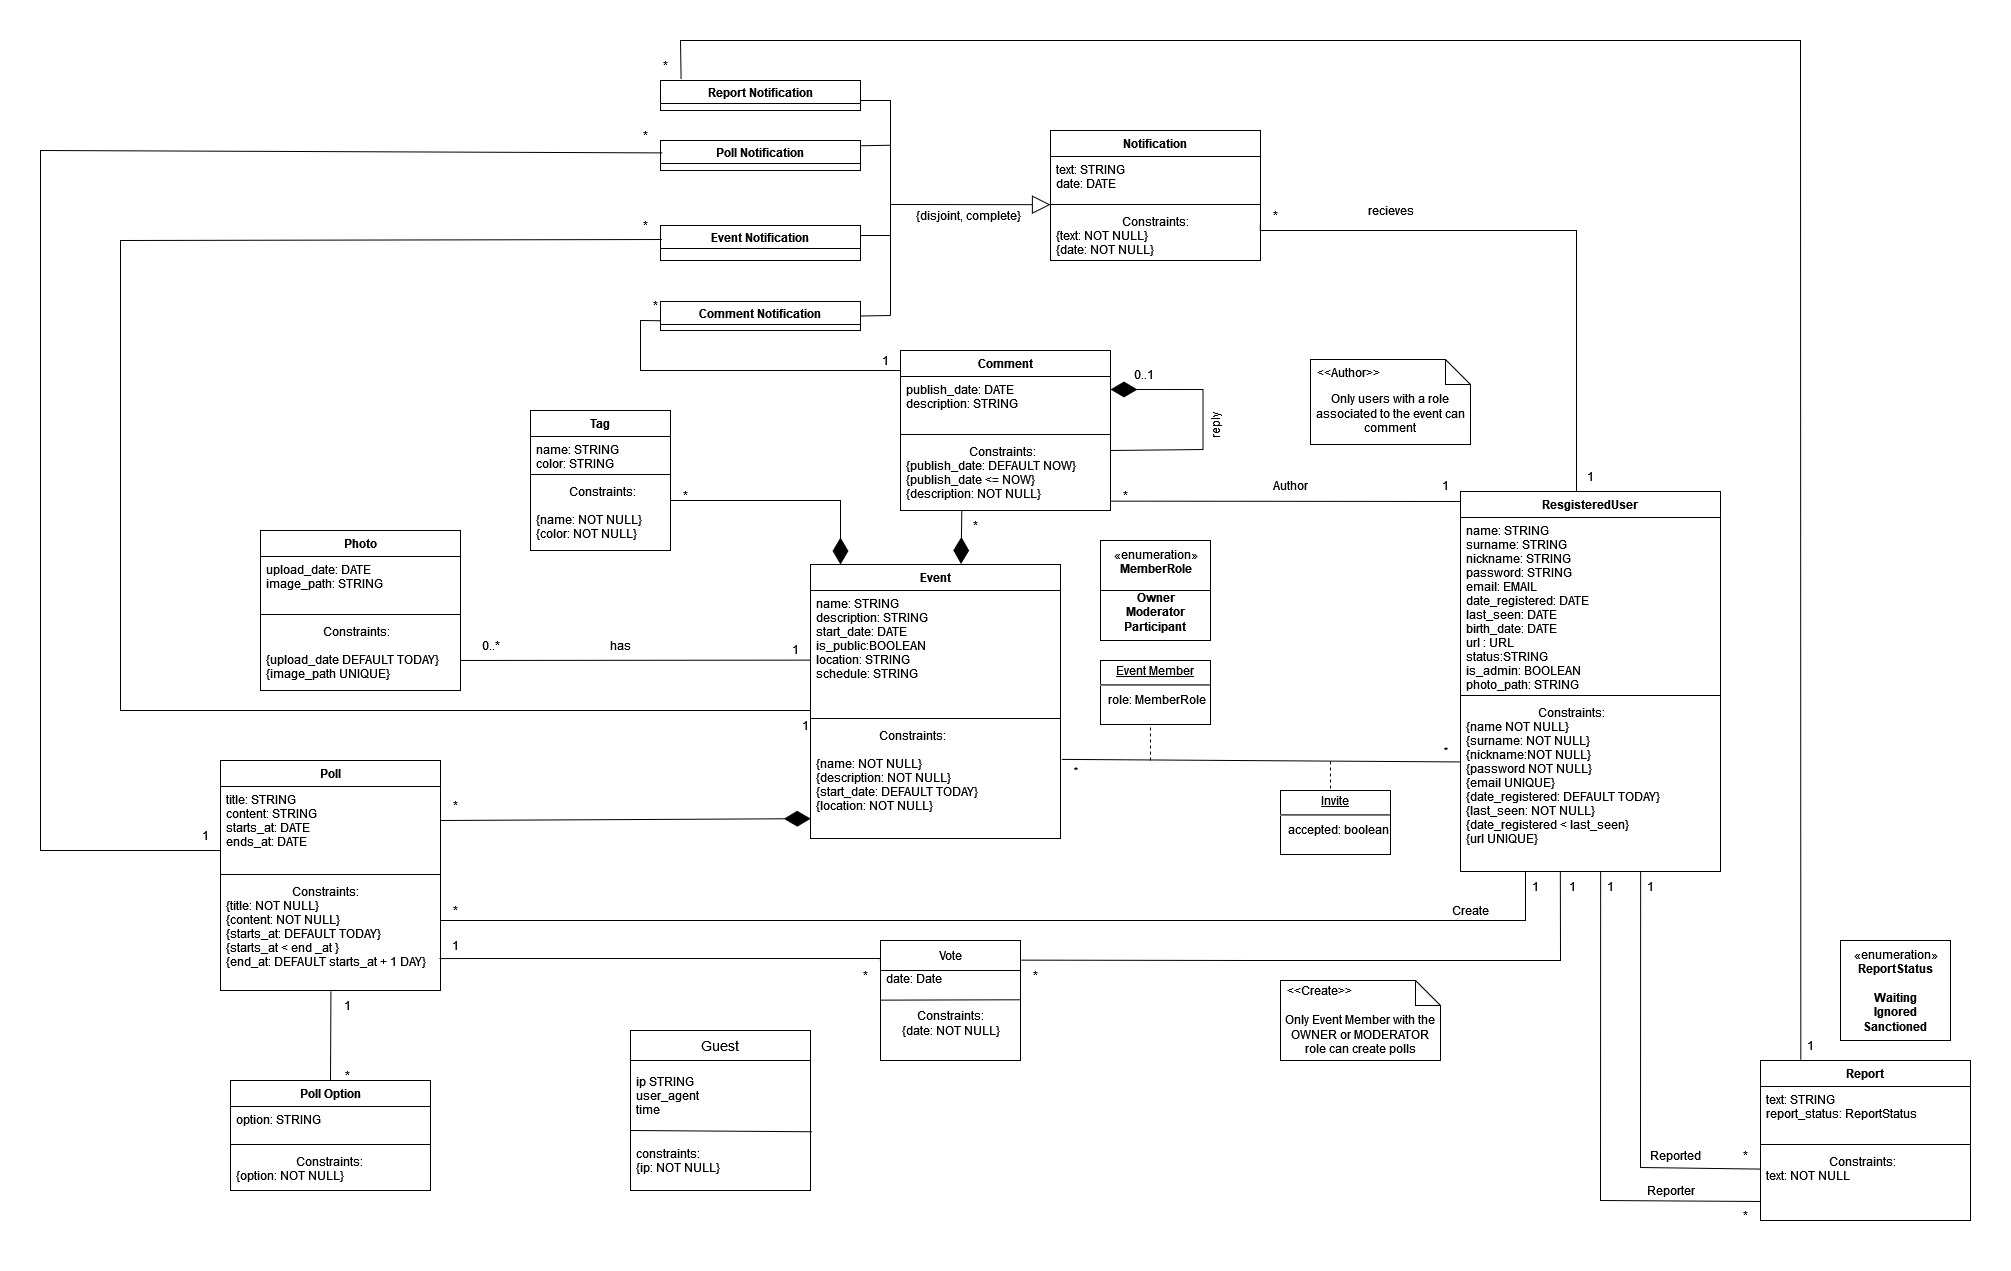
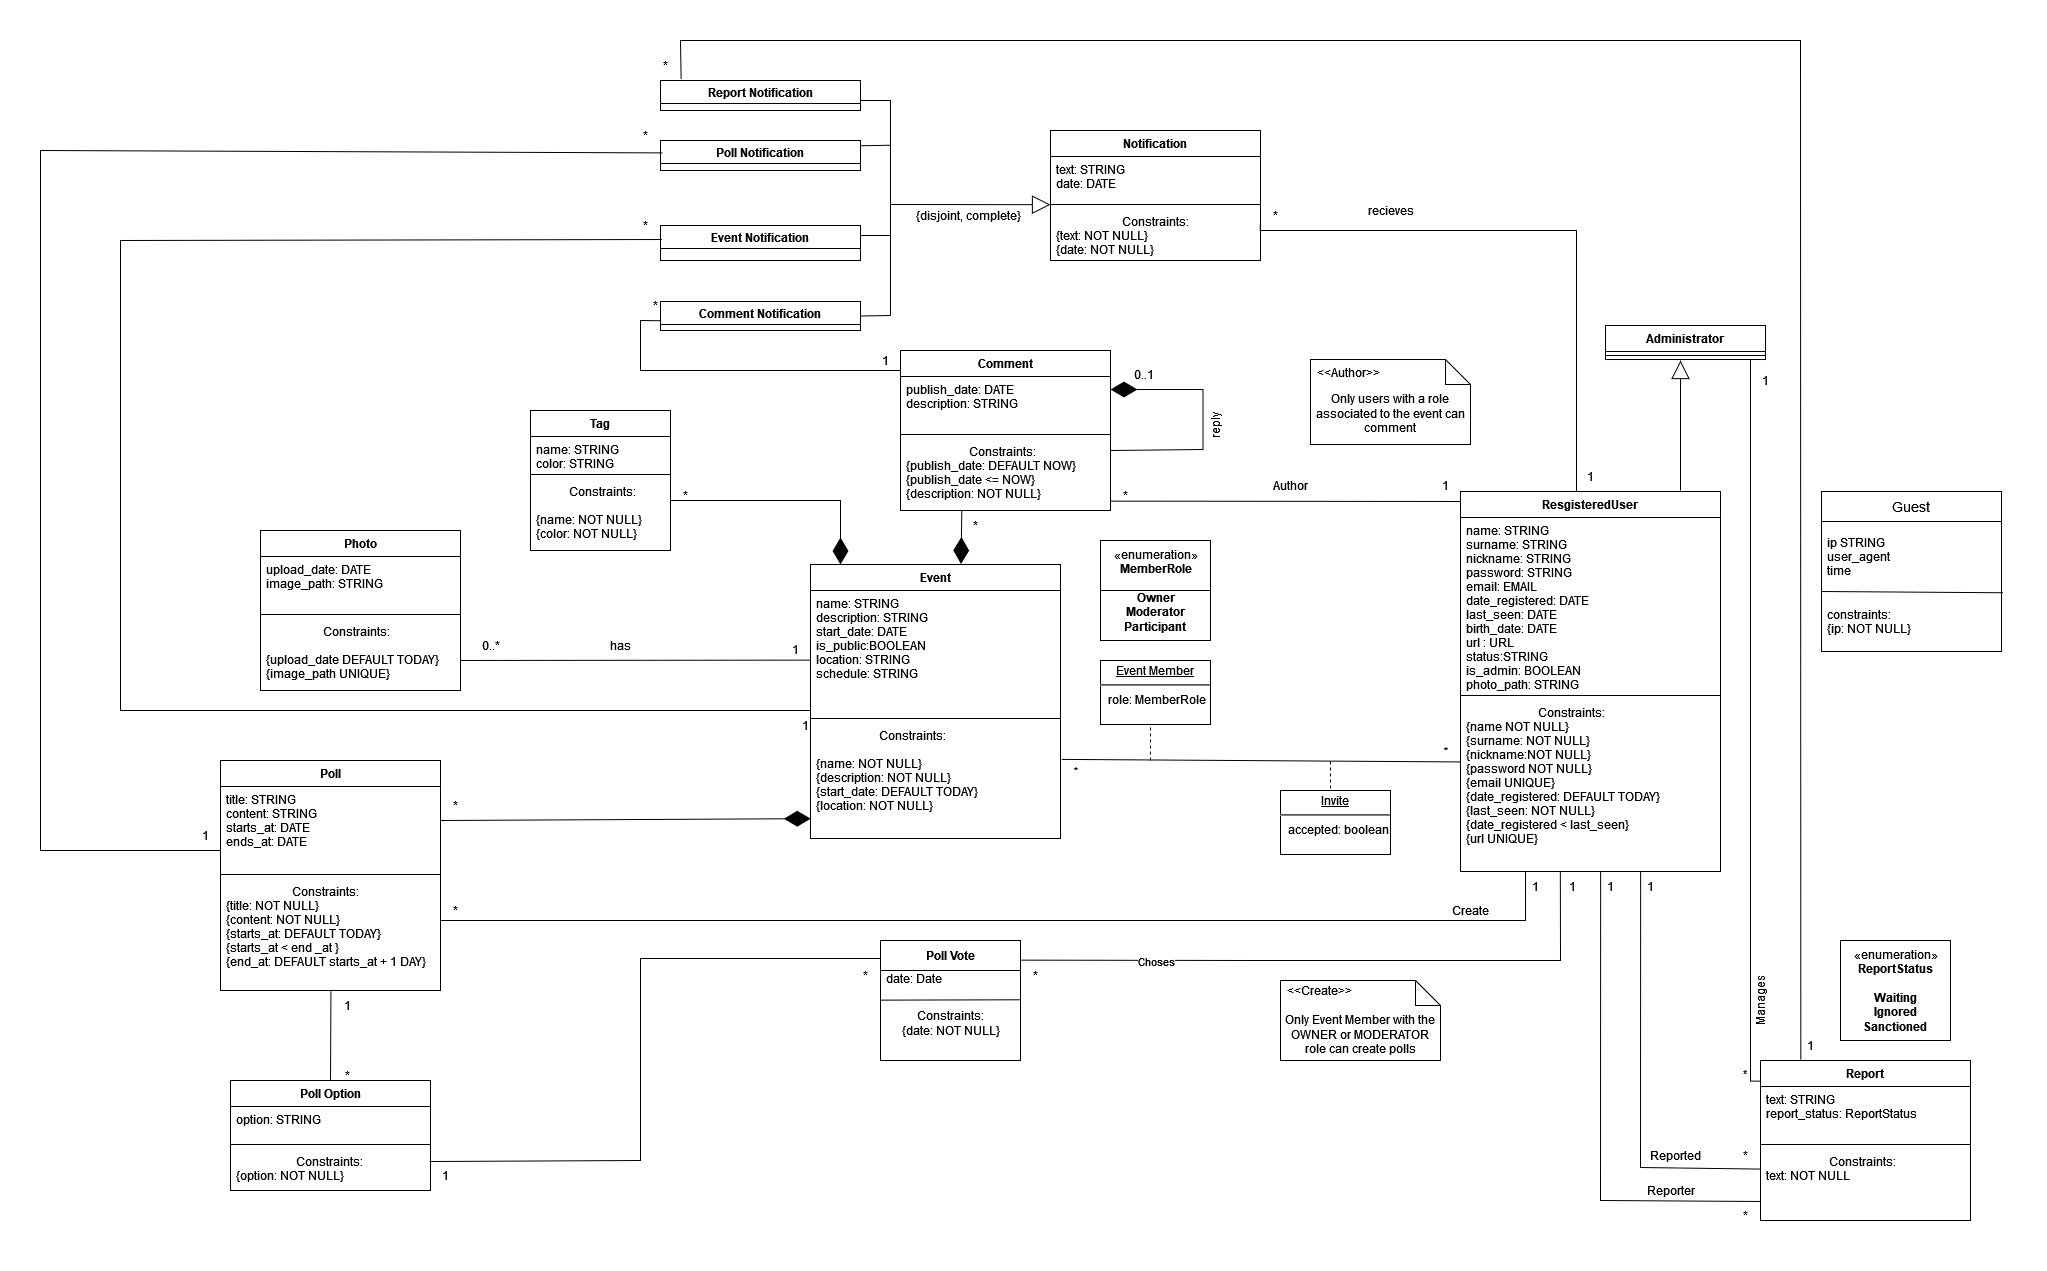
Administrator manages reports is added and Poll_Vote is directed to PollOption

diff --git a/EBD/EBD.md b/EBD/EBD.md
@@ -34,8 +34,8 @@ In A5 we are going to interpretate de UML diagram into the Relational Schema, so
 | R06				 | PollOption(<ins>pOption_id</ins>, option **NN**, #poll_id → Poll **NN**) |
 | R07   			 | Comment(<ins>comment_id</ins>, publish_date **NN**, description **NN**, #comment_id → Comment **NN**, #event_id → Event **NN**, #user_id → RegisteredUser **NN** ) |
 | R08    			 | Tag(<ins>tag_id</ins>, name **NN**, color **NN**, #event_id → Event **NN** ) |
-| R09  			     | Vote(<ins>vote_id</ins>, date **NN**, #user_id → RegisteredUser **NN**, #poll_id → Poll **NN** ) |
-| R10 				 | Report(<ins>report_id</ins>, text **NN**, report_status **DF** 'Waiting' **CK** (Report_status **IN** ReportStatus), reported → RegisteredUser **NN**, reporter → RegisteredUser **NN**) |
+| R09  			     | PollVote(<ins>vote_id</ins>, date **NN**, #user_id → RegisteredUser **NN**, #pOption_id → PollOption **NN** ) |
+| R10 				 | Report(<ins>report_id</ins>, text **NN**, report_status **DF** 'Waiting' **CK** (Report_status **IN** ReportStatus), reported → RegisteredUser **NN**, reporter → RegisteredUser **NN**, manages → Administrator **NN**) |
 | R11  				 | Guest(<ins>guest_id</ins>, ip **NN** **UK**, time **NN**) |
 | R12                | Report_Notification(<ins>#notification_id → Notification **NN**</ins>, #report → Report **NN**) |
 | R13                | Poll_Notification(<ins>#notification_id → Notification **NN**</ins>, #poll → Poll **NN**) |
@@ -44,6 +44,7 @@ In A5 we are going to interpretate de UML diagram into the Relational Schema, so
 | R16                | Event_RegisteredUser(<ins>event_id → Event</ins>, <ins>user_id → RegisteredUser</ins>) |
 | R17                | Invite(<ins>user_id → Registered_User</ins>,<ins>event_id → Event</ins>, accepted) |
 | R18                | Event_Member(<ins>user_id → Registered_User</ins>,<ins>event_id → Event</ins>, role **DF** 'Participant' **CK** (role **IN** MemberRole)) |
+|R19                 | Administrator(<ins>#user_id → RegisteredUser</ins>) |
 
 ### 2. Domains
 
@@ -120,11 +121,11 @@ In A5 we are going to interpretate de UML diagram into the Relational Schema, so
 | **NORMAL FORM** | BCNF               |
 
 
-| **TABLE R09**   | Vote               |
+| **TABLE R09**   | PollVote               |
 | --------------  | ---                |
 | **Keys**        | { vote_id } |
 | **Functional Dependencies:** |       |
-| FD0901          | vote_id → {date, user_id, poll_id} |
+| FD0901          | vote_id → {date, user_id, pOption_id} |
 | **NORMAL FORM** | BCNF               |
 
 
@@ -132,7 +133,7 @@ In A5 we are going to interpretate de UML diagram into the Relational Schema, so
 | --------------  | ---                |
 | **Keys**        | { report_id }|
 | **Functional Dependencies:** |       |
-| FD1001          | report_id → {text, report_status, reported, reporter} |
+| FD1001          | report_id → {text, report_status, reported, reporter, manages} |
 | **NORMAL FORM** | BCNF               |
 
 
@@ -197,6 +198,13 @@ In A5 we are going to interpretate de UML diagram into the Relational Schema, so
 | **Keys**        | { user_id }, { event_id }  |
 | **Functional Dependencies:** |       |
 | FD1801          | user_id, event_id → {role} |
+| **NORMAL FORM** | BCNF               |
+
+| **TABLE R19**   | Administrator      |
+| --------------  | ---                |
+| **Keys**        | { user_id }        |
+| **Functional Dependencies:** |       |
+| FD1801          | none               |
 | **NORMAL FORM** | BCNF               |
 
 The Schema is already in BCNF. Every relation is in BCNF (Boyce-Codd Normal Form).
